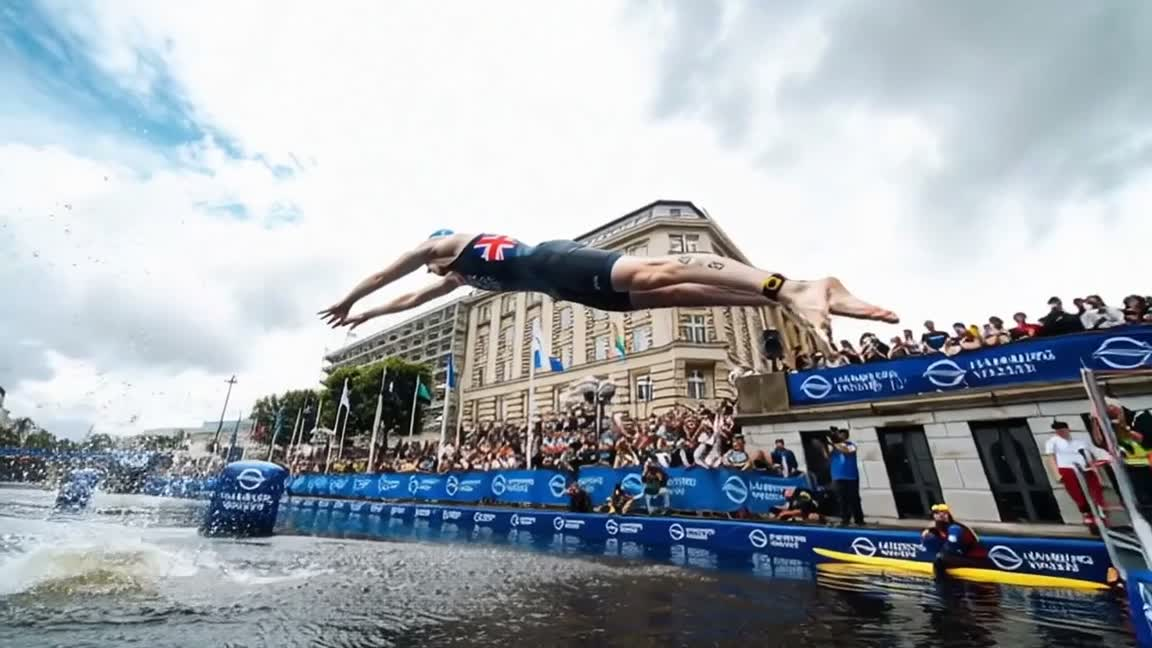
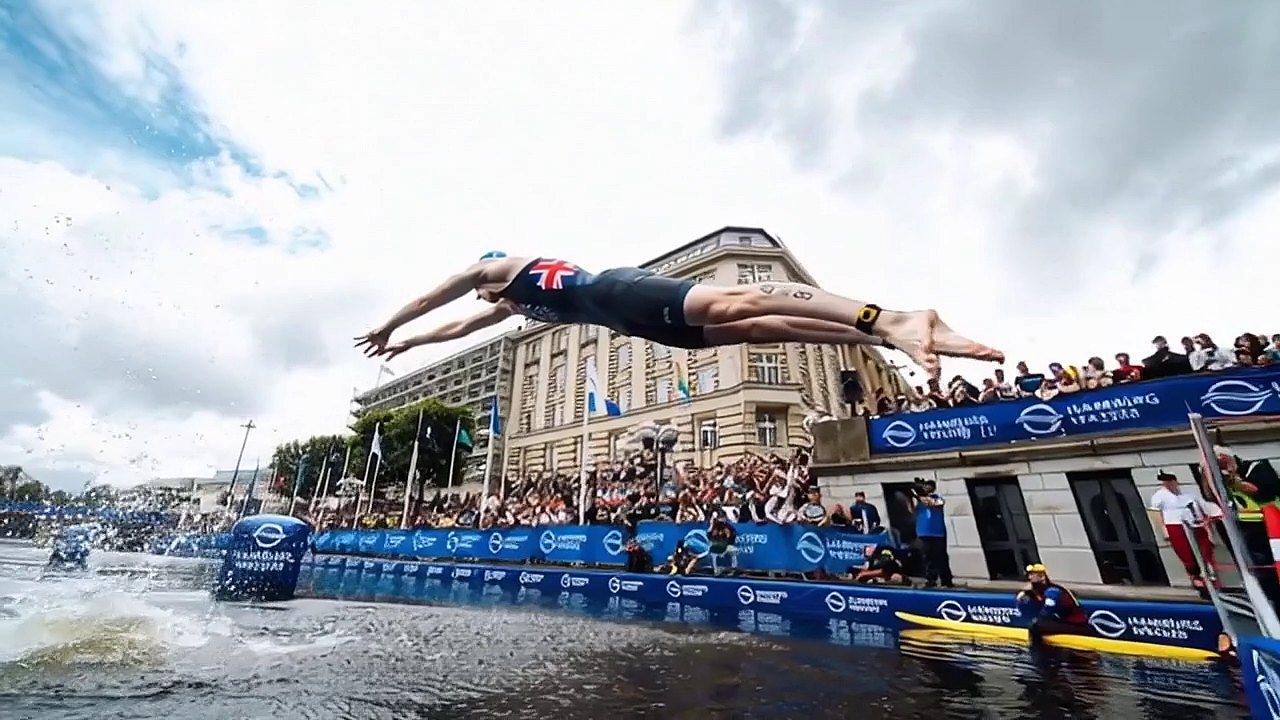
Hero: flat racing dive, sharper frames, cut before the vertical plunge
The generated clip rotated the athlete feet-up into a vertical descent that read
as drowning rather than a racing dive, so the sequence now stops at the water
entry. What remains is the flat streamlined dive travelling forward, the camera
swinging in behind, and the splash, with the name surfacing over the spray.

Sharpness: frames are re-extracted at 1280px from the source with a light
unsharp pass instead of the previous 1152px downscale, and encoded as WebP q75.
36 frames, 3.3 MB, down from 2.2 MB of visibly soft JPEGs at lower resolution.

Also deepens the hero scrim so the name and chips hold contrast against the
bright spray at the end of the move.

diff --git a/redesign/index.html b/redesign/index.html
@@ -88,7 +88,7 @@
   .dive-canvas { opacity: 0; transition: opacity .4s ease; }
   .dive-canvas.ready { opacity: 1; }
   .dive-scrim { position: absolute; inset: 0; pointer-events: none; background:
-    linear-gradient(to top, rgba(10,22,40,0.95) 0%, rgba(10,22,40,0.55) 30%, rgba(10,22,40,0) 65%); opacity: .55; }
+    linear-gradient(to top, rgba(10,22,40,0.97) 0%, rgba(10,22,40,0.88) 22%, rgba(10,22,40,0.55) 45%, rgba(10,22,40,0.12) 72%, rgba(10,22,40,0) 100%); opacity: .5; }
   .dive-bar { position: absolute; top: 28px; left: 0; right: 0; display: flex; justify-content: space-between; align-items: flex-start; gap: 16px; pointer-events: none; }
   .dive-bar .eyebrow { color: var(--ink-2); margin: 0; text-shadow: 0 1px 10px rgba(0,0,0,0.7); }
   .dive-hint { font-family: var(--mono); font-size: 11px; letter-spacing: 0.14em; text-transform: uppercase; color: var(--teal); margin: 0; display: flex; align-items: center; gap: 10px; transition: opacity .3s; }
@@ -488,7 +488,7 @@
 <script>
 (function () {
   document.documentElement.classList.remove('no-js');
-  var COUNT = 48, PATH = '../images/hero-frames/';
+  var COUNT = 36, PATH = '../images/hero-frames/', EXT = '.webp';
   var stage = document.querySelector('.dive'), canvas = document.querySelector('.dive-canvas'),
       poster = document.querySelector('.dive-poster'), title = document.querySelector('.dive-title'),
       hint = document.querySelector('.dive-hint'), scrim = document.querySelector('.dive-scrim'),
@@ -518,7 +518,7 @@
       draw(true);
     };
     im.onerror = function () { loaded++; if (loaded === COUNT && load) load.style.opacity = 0; };
-    im.src = PATH + 'f' + pad(i + 1) + '.jpg';
+    im.src = PATH + 'f' + pad(i + 1) + EXT;
     imgs[i] = im;
   })(i);
 
@@ -554,7 +554,7 @@
     var reveal = Math.max(0, Math.min(1, (p - 0.72) / 0.28));
     title.style.opacity = reveal;
     title.style.transform = 'translateY(' + (26 * (1 - reveal)) + 'px)';
-    scrim.style.opacity = 0.45 + 0.5 * reveal;
+    scrim.style.opacity = 0.4 + 0.6 * reveal;
     if (hint) hint.style.opacity = Math.max(0, 1 - p * 6);
   }
   var tick = false;

diff --git a/index.html b/index.html
@@ -92,7 +92,7 @@
   .dive-canvas { opacity: 0; transition: opacity .4s ease; }
   .dive-canvas.ready { opacity: 1; }
   .dive-scrim { position: absolute; inset: 0; pointer-events: none; background:
-    linear-gradient(to top, rgba(10,22,40,0.95) 0%, rgba(10,22,40,0.55) 30%, rgba(10,22,40,0) 65%); opacity: .55; }
+    linear-gradient(to top, rgba(10,22,40,0.97) 0%, rgba(10,22,40,0.88) 22%, rgba(10,22,40,0.55) 45%, rgba(10,22,40,0.12) 72%, rgba(10,22,40,0) 100%); opacity: .5; }
   .dive-bar { position: absolute; top: 28px; left: 0; right: 0; display: flex; justify-content: space-between; align-items: flex-start; gap: 16px; pointer-events: none; }
   .dive-bar .eyebrow { color: var(--ink-2); margin: 0; text-shadow: 0 1px 10px rgba(0,0,0,0.7); }
   .dive-hint { font-family: var(--mono); font-size: 11px; letter-spacing: 0.14em; text-transform: uppercase; color: var(--teal); margin: 0; display: flex; align-items: center; gap: 10px; transition: opacity .3s; }
@@ -490,7 +490,7 @@
 <script>
 (function () {
   document.documentElement.classList.remove('no-js');
-  var COUNT = 48, PATH = 'images/hero-frames/';
+  var COUNT = 36, PATH = 'images/hero-frames/', EXT = '.webp';
   var stage = document.querySelector('.dive'), canvas = document.querySelector('.dive-canvas'),
       poster = document.querySelector('.dive-poster'), title = document.querySelector('.dive-title'),
       hint = document.querySelector('.dive-hint'), scrim = document.querySelector('.dive-scrim'),
@@ -520,7 +520,7 @@
       draw(true);
     };
     im.onerror = function () { loaded++; if (loaded === COUNT && load) load.style.opacity = 0; };
-    im.src = PATH + 'f' + pad(i + 1) + '.jpg';
+    im.src = PATH + 'f' + pad(i + 1) + EXT;
     imgs[i] = im;
   })(i);
 
@@ -556,7 +556,7 @@
     var reveal = Math.max(0, Math.min(1, (p - 0.72) / 0.28));
     title.style.opacity = reveal;
     title.style.transform = 'translateY(' + (26 * (1 - reveal)) + 'px)';
-    scrim.style.opacity = 0.45 + 0.5 * reveal;
+    scrim.style.opacity = 0.4 + 0.6 * reveal;
     if (hint) hint.style.opacity = Math.max(0, 1 - p * 6);
   }
   var tick = false;

diff --git a/redesign/template.html b/redesign/template.html
@@ -83,7 +83,7 @@
   .dive-canvas { opacity: 0; transition: opacity .4s ease; }
   .dive-canvas.ready { opacity: 1; }
   .dive-scrim { position: absolute; inset: 0; pointer-events: none; background:
-    linear-gradient(to top, rgba(10,22,40,0.95) 0%, rgba(10,22,40,0.55) 30%, rgba(10,22,40,0) 65%); opacity: .55; }
+    linear-gradient(to top, rgba(10,22,40,0.97) 0%, rgba(10,22,40,0.88) 22%, rgba(10,22,40,0.55) 45%, rgba(10,22,40,0.12) 72%, rgba(10,22,40,0) 100%); opacity: .5; }
   .dive-bar { position: absolute; top: 28px; left: 0; right: 0; display: flex; justify-content: space-between; align-items: flex-start; gap: 16px; pointer-events: none; }
   .dive-bar .eyebrow { color: var(--ink-2); margin: 0; text-shadow: 0 1px 10px rgba(0,0,0,0.7); }
   .dive-hint { font-family: var(--mono); font-size: 11px; letter-spacing: 0.14em; text-transform: uppercase; color: var(--teal); margin: 0; display: flex; align-items: center; gap: 10px; transition: opacity .3s; }
@@ -482,7 +482,7 @@
 <script>
 (function () {
   document.documentElement.classList.remove('no-js');
-  var COUNT = 48, PATH = '{{FRAME_PATH}}';
+  var COUNT = 36, PATH = '{{FRAME_PATH}}', EXT = '.webp';
   var stage = document.querySelector('.dive'), canvas = document.querySelector('.dive-canvas'),
       poster = document.querySelector('.dive-poster'), title = document.querySelector('.dive-title'),
       hint = document.querySelector('.dive-hint'), scrim = document.querySelector('.dive-scrim'),
@@ -512,7 +512,7 @@
       draw(true);
     };
     im.onerror = function () { loaded++; if (loaded === COUNT && load) load.style.opacity = 0; };
-    im.src = PATH + 'f' + pad(i + 1) + '.jpg';
+    im.src = PATH + 'f' + pad(i + 1) + EXT;
     imgs[i] = im;
   })(i);
 
@@ -548,7 +548,7 @@
     var reveal = Math.max(0, Math.min(1, (p - 0.72) / 0.28));
     title.style.opacity = reveal;
     title.style.transform = 'translateY(' + (26 * (1 - reveal)) + 'px)';
-    scrim.style.opacity = 0.45 + 0.5 * reveal;
+    scrim.style.opacity = 0.4 + 0.6 * reveal;
     if (hint) hint.style.opacity = Math.max(0, 1 - p * 6);
   }
   var tick = false;

diff --git a/CLAUDE.md b/CLAUDE.md
@@ -55,12 +55,14 @@ This is a fan page website for Michael Gar, an elite British triathlete. The sit
 The classic page keeps its own system in `styles.css` (Montserrat/Open Sans, blue-teal gradients).
 
 ## Key Sections (live page, in order)
-1. **Dive hero** - Pinned, scroll-scrubbed frame sequence. The camera opens at the photographer's position beside the canal, swings behind Michael, then rides down his back through the surface and underwater, where the name and CTAs surface. Scroll position picks the frame; nothing autoplays.
-   - Frames: `images/hero-frames/f001..f048.jpg` (48 frames, 1152px, ~2.2 MB total). `images/hero-poster.jpg` is frame 1 and is the LCP element plus the Open Graph image.
+1. **Dive hero** - Pinned, scroll-scrubbed frame sequence. The camera opens at the photographer's position beside the canal, swings behind Michael as he holds a flat streamlined dive travelling forward, and ends as he enters the water. The name and CTAs surface over the spray. Scroll position picks the frame; nothing autoplays.
+   - Frames: `images/hero-frames/f001..f036.webp` (36 frames, 1280px, WebP q75, ~3.3 MB total). `images/hero-poster.jpg` is frame 1 and is the LCP element plus the Open Graph image. `COUNT`/`EXT` in the inline script must match what is in the folder.
    - Source: generated with OpenAI **sora-2** image-to-video, seeded with a 1280x720 crop of `images/gallery/hamburg-dive.jpg`. The underwater portion is generated, not real race footage - keep that in mind before describing it as footage anywhere. Regenerate with `redesign/generate-hero.py` (currently written for fal.ai; the working Sora call is documented below).
    - Sora notes: `POST /v1/videos` multipart with `model`, `prompt`, `seconds`, `size`, `input_reference` (image must match `size` exactly). Poll `GET /v1/videos/{id}`, download `GET /v1/videos/{id}/content`. **Prompt wording matters** - naming the athlete's nationality/kit and "body-mounted" phrasing tripped `moderation_blocked`; neutral camera-motion language passed.
    - Debug: append `?dive=0.5` (0..1) to freeze the camera at any point for screenshots.
    - Fallbacks: static poster under `prefers-reduced-motion`, with JS off (`no-js` on `<html>`), and on `saveData`/2g connections, which skip the 2.2 MB of frames entirely.
+   - The generated clip runs 8.3s but only the first ~3.05s is used. Past that the athlete rotates feet-up into a vertical plunge that reads as drowning rather than a racing dive, so the sequence is cut at the water entry. Any regenerated clip must be checked for the same failure before extraction.
+   - Regenerating for the full underwater glide needs a prompt that stresses a FLAT, shallow, forward-travelling racing dive and streamline (never "down", "plunge" or "descend"), and `sora-2-pro` at 1792x1024 for sharpness. The attempt to do this was blocked by `insufficient_quota` on the OpenAI account.
    - Rejected approach: CSS transforms over the flat photo. It reads as a pan-and-zoom, not a camera move. Do not retry it.
 
 2. **Stat strip** - #19 WTCS standing, 2× British Champion, 2 European silvers 2026, 29:38 fastest 10 km
